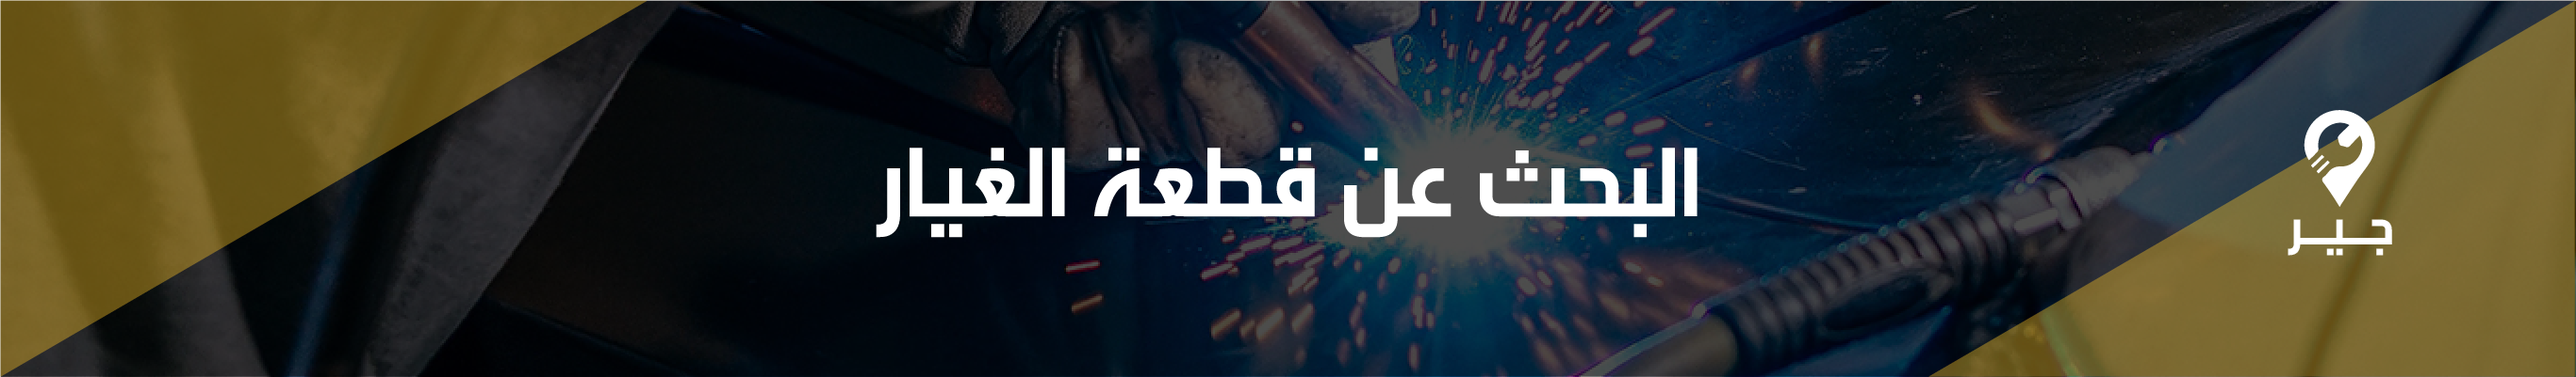
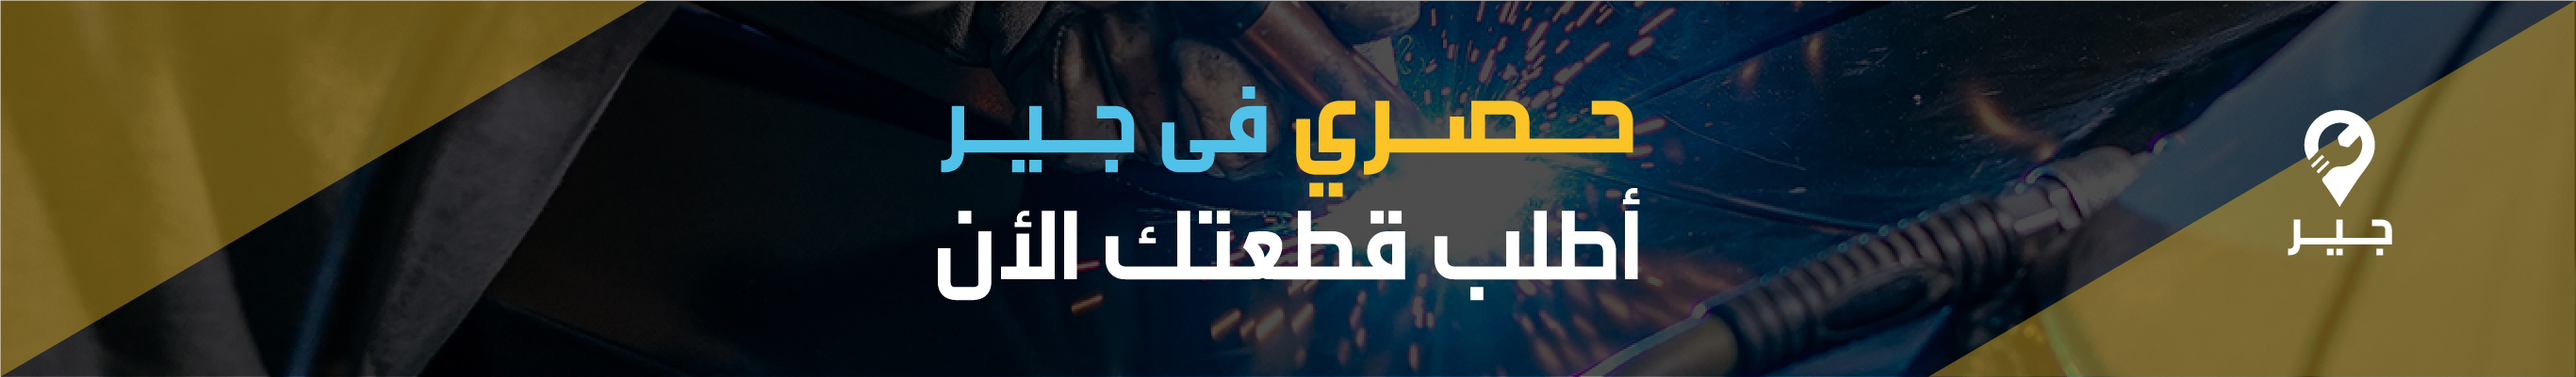
a

Changed region(s): [[0.3421, 0.2394, 0.6842, 0.808], [0.5598, 0.7781, 0.5909, 0.808]]

diff --git a/src/app/need-product/need-product.component.html b/src/app/need-product/need-product.component.html
@@ -2,5 +2,48 @@
 </section>
 <section class="needSpare py-5">
     <div class="container">
+        <div class="row">
+            <div class="col-12 d-flex justify-content-center">
+                <form class="p-4" >
+                    <div class="form-row mb-4">
+                        <div class="form-group col-md-12 text-right">
+                        <label for="inputEmail4">اسم القطعة</label>
+                        <input type="email" class="form-control text-right">
+                        </div>
+                    </div>                    
+                    <div class="form-row mb-5">
+                        <div class="form-group col-md-12  text-right ">
+                            <label for="inputState">الموديل</label>
+                            <select id="inputState" class="form-control">
+                                <option selected></option>
+                                <option>...</option>
+                            </select>
+                        </div>
+                    </div>
+                    <div class="form-row mb-5">
+                        <div class="form-group col-md-12 text-right">
+                            <label for="inputState">الماركة</label>
+                            <select id="inputState" class="form-control">
+                                <option selected></option>
+                                <option>...</option>
+                            </select>
+                        </div>
+                    </div>
+                    <div class="form-group">
+                        <div class="form-group col-md-12 text-right p-0">
+                            <label for="exampleFormControlTextarea1" >الوصف</label>
+                            <textarea class="form-control" id="exampleFormControlTextarea1" rows="3"></textarea>
+                        </div>
+                    </div>
+                    <div class="form-group">
+                        <div class="form-group col-md-12 text-right p-0">
+                            <label for="exampleFormControlFile1">تحميل صورة</label>
+                            <input type="file" class="form-control-file" id="exampleFormControlFile1">
+                        </div>
+                    </div>
+                    <button type="submit" class="btn btn-primary text-center ">بحث</button>
+                    </form>
+            </div>
+        </div>
     </div>
 </section>

diff --git a/src/app/need-product/need-product.component.scss b/src/app/need-product/need-product.component.scss
@@ -6,4 +6,25 @@
     background-repeat: no-repeat;
 }
 //----------------------section shop
-.needSpare{}
+.needSpare{
+    direction: rtl;
+    text-align: right;
+    background-image: url(../../assets/img/bgPattern/6.png);
+    background-repeat: repeat;
+    height: 100%;
+    form{
+        box-shadow: 0px 0px 20px 1px lightgrey;
+        background-color: rgba($color: #fff, $alpha: .90);
+        border-radius: 7px;
+        .form-row{
+            .form-group{
+                label{
+                    color: #343a40;  
+                }
+                input , textarea , select{
+                    background-color: #f7f7f7;
+                    }
+            }//form-group
+        }//form-row
+    }//form
+}//needSpare
